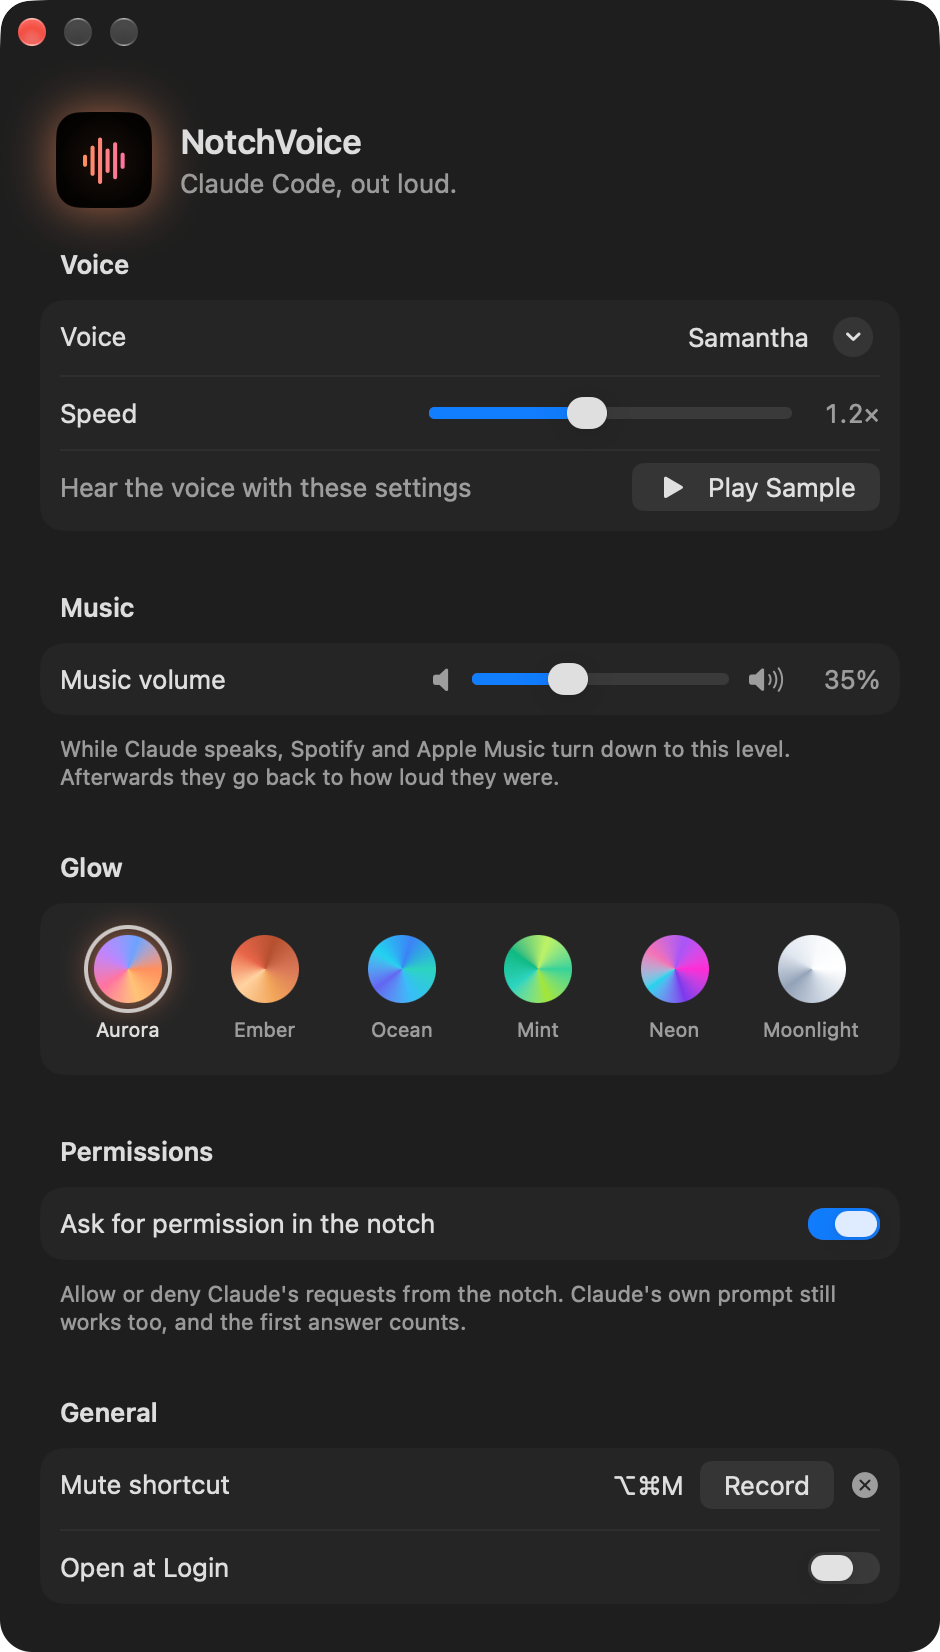
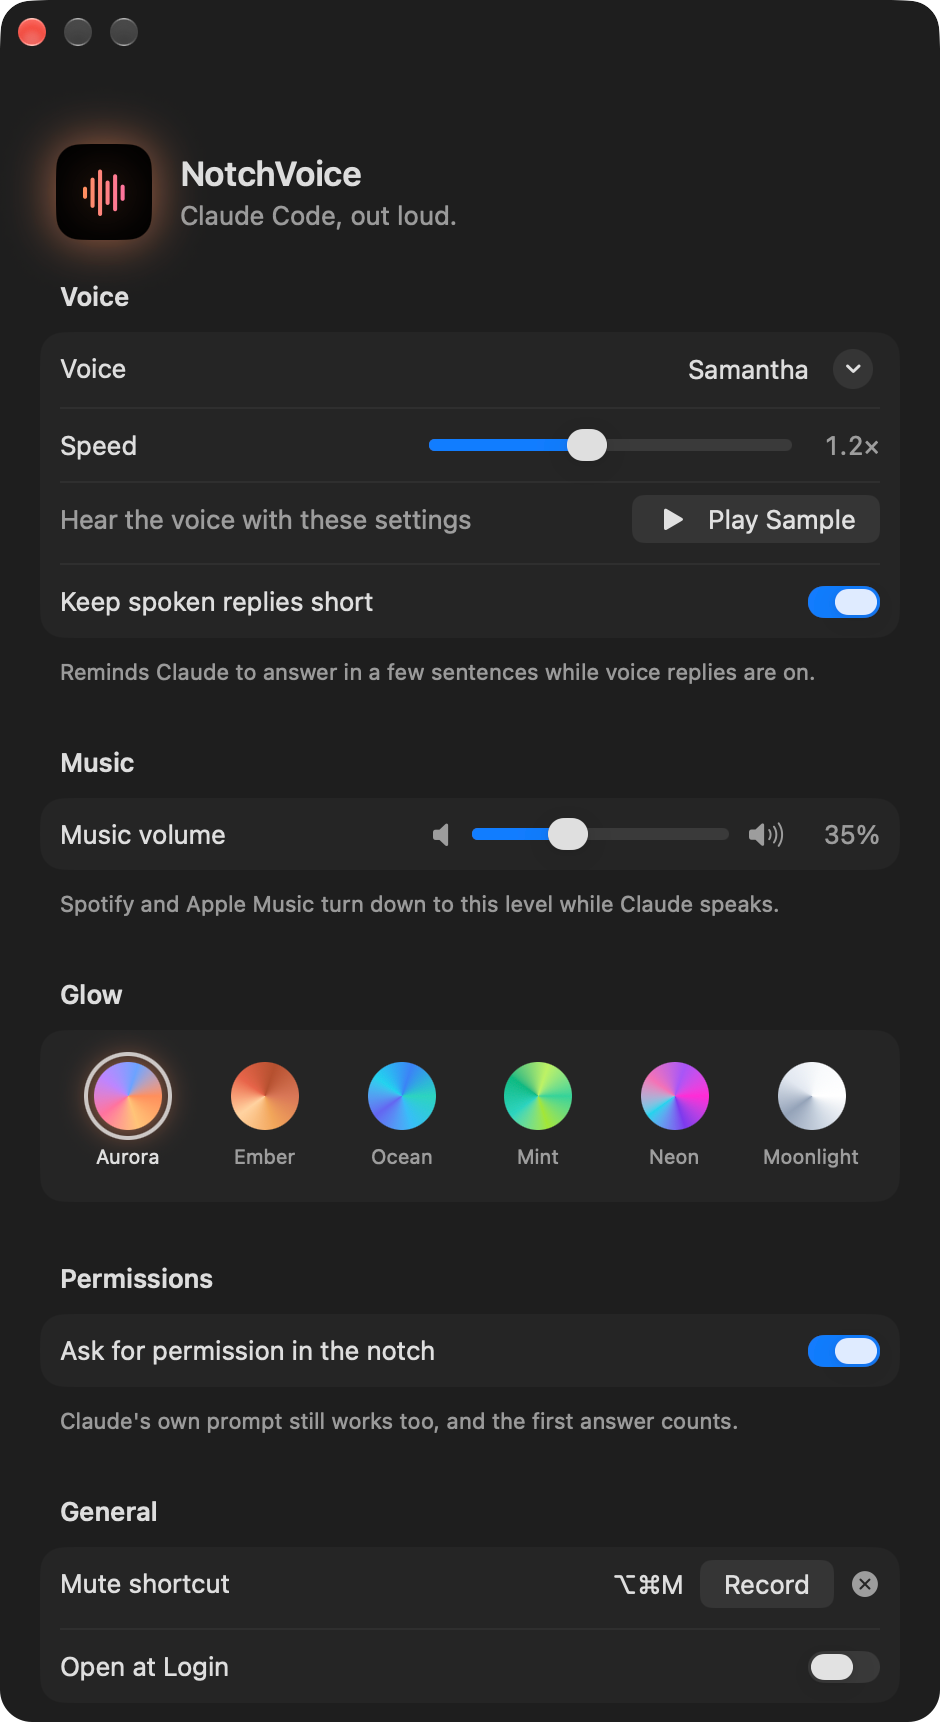
Short spoken replies: remind Claude to keep voice answers brief
A UserPromptSubmit hook adds a short reminder to every prompt while voice replies are on, so each session keeps its spoken answer to a few sentences. Settings has a "Keep spoken replies short" toggle, saved as brief in tts_settings.json. The settings window now fits smaller screens by scrolling. Version 1.3.

diff --git a/Sources/NotchVoice/SettingsView.swift b/Sources/NotchVoice/SettingsView.swift
@@ -33,13 +33,14 @@ final class SettingsWindowController {
         window.titleVisibility = .hidden
         window.isMovableByWindowBackground = true
         window.isReleasedWhenClosed = false
-        window.setContentSize(SettingsView.size)
+        let available = (NSScreen.main?.visibleFrame.height ?? SettingsView.size.height) - 24
+        window.setContentSize(CGSize(width: SettingsView.size.width, height: min(SettingsView.size.height, available)))
         return window
     }
 }
 
 struct SettingsView: View {
-    static let size = CGSize(width: 470, height: 856)
+    static let size = CGSize(width: 470, height: 926)
 
     @ObservedObject var voice: VoiceController
     @ObservedObject var preferences: Preferences
@@ -49,7 +50,7 @@ struct SettingsView: View {
         VStack(spacing: 0) {
             header
             Form {
-                Section("Voice") {
+                Section {
                     LabeledContent("Voice") { voiceMenu }
                     LabeledContent("Speed") {
                         HStack(spacing: 10) {
@@ -66,6 +67,11 @@ struct SettingsView: View {
                         Text("Hear the voice with these settings")
                             .foregroundStyle(.secondary)
                     }
+                    Toggle("Keep spoken replies short", isOn: keepsRepliesShort)
+                } header: {
+                    Text("Voice")
+                } footer: {
+                    Text("Reminds Claude to answer in a few sentences while voice replies are on.")
                 }
                 Section {
                     LabeledContent("Music volume") {
@@ -82,7 +88,7 @@ struct SettingsView: View {
                 } header: {
                     Text("Music")
                 } footer: {
-                    Text("While Claude speaks, Spotify and Apple Music turn down to this level. Afterwards they go back to how loud they were.")
+                    Text("Spotify and Apple Music turn down to this level while Claude speaks.")
                 }
                 Section("Glow") {
                     themePicker
@@ -92,7 +98,7 @@ struct SettingsView: View {
                 } header: {
                     Text("Permissions")
                 } footer: {
-                    Text("Allow or deny Claude's requests from the notch. Claude's own prompt still works too, and the first answer counts.")
+                    Text("Claude's own prompt still works too, and the first answer counts.")
                 }
                 Section("General") {
                     ShortcutRecorder(
@@ -106,10 +112,10 @@ struct SettingsView: View {
             }
             .formStyle(.grouped)
             .scrollContentBackground(.hidden)
-            .scrollDisabled(true)
             footer
         }
-        .frame(width: Self.size.width, height: Self.size.height)
+        .frame(width: Self.size.width)
+        .frame(minHeight: 480, maxHeight: .infinity)
         .background(Color(nsColor: .windowBackgroundColor))
     }
 
@@ -217,6 +223,10 @@ struct SettingsView: View {
 
     private var speed: Binding<Double> {
         Binding(get: { voice.speed }, set: { voice.setSpeed(($0 * 10).rounded() / 10) })
+    }
+
+    private var keepsRepliesShort: Binding<Bool> {
+        Binding(get: { voice.keepsRepliesShort }, set: { voice.setKeepsRepliesShort($0) })
     }
 
     private var musicVolume: Binding<Double> {

diff --git a/Sources/NotchVoice/VoiceController.swift b/Sources/NotchVoice/VoiceController.swift
@@ -14,6 +14,7 @@ final class VoiceController: ObservableObject {
     @Published private(set) var voiceName = "System Voice"
     @Published private(set) var speed = 1.0
     @Published private(set) var musicVolume = 0.5
+    @Published private(set) var keepsRepliesShort = true
 
     // The contract of ~/.claude/hooks/speak.py: it stays silent while the mute file exists, takes its voice, rate
     // and music level from the settings file, and writes "<hook pid> <say pid>" to the owner file while it speaks.
@@ -57,6 +58,11 @@ final class VoiceController: ObservableObject {
         saveSettings()
     }
 
+    func setKeepsRepliesShort(_ enabled: Bool) {
+        keepsRepliesShort = enabled
+        saveSettings()
+    }
+
     func loadSettings() {
         let settings = (try? Data(contentsOf: settingsFile))
             .flatMap { try? JSONSerialization.jsonObject(with: $0) as? [String: Any] } ?? [:]
@@ -65,6 +71,7 @@ final class VoiceController: ObservableObject {
         voiceName = id.flatMap(VoiceCatalog.displayName(of:)) ?? "System Voice"
         speed = (settings["rate"] as? Double).map { ($0 / Self.baseRate * 10).rounded() / 10 } ?? 1
         musicVolume = settings["duck"] as? Double ?? 0.5
+        keepsRepliesShort = settings["brief"] as? Bool ?? true
     }
 
     func playSample() {
@@ -107,7 +114,7 @@ final class VoiceController: ObservableObject {
     }
 
     private func saveSettings() {
-        var settings: [String: Any] = ["duck": NSDecimalNumber(string: String(format: "%.2f", musicVolume))]
+        var settings: [String: Any] = ["duck": NSDecimalNumber(string: String(format: "%.2f", musicVolume)), "brief": keepsRepliesShort]
         if let voiceID { settings["voice"] = voiceID }
         if abs(speed - 1) > 0.01 { settings["rate"] = Int((Self.baseRate * speed).rounded()) }
         guard let data = try? JSONSerialization.data(withJSONObject: settings, options: [.prettyPrinted, .sortedKeys]) else { return }

diff --git a/hook/notchvoice_brief.py b/hook/notchvoice_brief.py
@@ -1,0 +1,36 @@
+#!/usr/bin/env python3
+"""UserPromptSubmit hook: while NotchVoice voice replies are on, remind Claude that its final reply is read aloud.
+
+Claude gets this note with every prompt, so every session keeps its spoken replies short. It adds nothing while
+voice replies are muted (~/.claude/tts_off exists) or when "brief" is false in ~/.claude/tts_settings.json.
+"""
+import json
+import os
+import sys
+
+MUTE_FILE = os.path.join(os.path.expanduser("~"), ".claude", "tts_off")
+SETTINGS_FILE = os.path.join(os.path.expanduser("~"), ".claude", "tts_settings.json")
+REMINDER = (
+    "Voice replies are on, so your final message for this prompt is read aloud to the user. "
+    "Keep it short: two to four plain sentences giving the high-level outcome. "
+    "Leave out long lists, tables, code and file paths unless the user asks for them, and offer more detail instead of including it."
+)
+
+
+def wants_short_replies():
+    try:
+        with open(SETTINGS_FILE) as f:
+            return json.load(f).get("brief", True) is not False
+    except (OSError, ValueError, AttributeError):
+        return True
+
+
+def main():
+    sys.stdin.read()
+    if os.path.exists(MUTE_FILE) or not wants_short_replies():
+        return
+    print(json.dumps({"hookSpecificOutput": {"hookEventName": "UserPromptSubmit", "additionalContext": REMINDER}}))
+
+
+if __name__ == "__main__":
+    main()

diff --git a/README.md b/README.md
@@ -19,6 +19,7 @@ Hear every Claude Code reply spoken aloud, and allow or deny Claude's requests r
 
 - **Spoken replies.** Claude Code reads each reply aloud as soon as it finishes. Speech runs fully offline through macOS `say`, with markdown tidied up and code blocks skipped.
 - **A notch that glows.** A soft, shifting glow surrounds the notch while Claude talks.
+- **Short spoken replies.** While voice replies are on, Claude is reminded with every prompt to answer in a few sentences, so replies are quick to listen to.
 - **Music steps aside.** Spotify and Apple Music get quieter while Claude speaks, then return to the volume they were at.
 - **Controls in the notch.** Hover over the notch to turn voice replies on or off, or set a keyboard shortcut for it. Turning them off mid-sentence stops the speech straight away.
 - **Permissions in the notch.** When Claude asks to run a command or edit a file, the notch shows the request with Allow and Deny.
@@ -70,11 +71,12 @@ To set it, open settings, click **Record** next to **Mute shortcut**, and press 
 Click the cog in the notch to open settings. Changes apply to the next reply, with no restart needed.
 
 <p align="center">
-  <img src="docs/settings.png" alt="The NotchVoice settings window with voice, speed, music volume, glow theme, permission and mute shortcut settings" width="470">
+  <img src="docs/settings.png" alt="The NotchVoice settings window with voice, speed, short replies, music volume, glow theme, permission and mute shortcut settings" width="470">
 </p>
 
 - **Voice.** Choose any macOS voice installed on your Mac. You hear a short sample as soon as you pick one.
 - **Speed.** Set how fast replies are read, from 0.6× to 2×.
+- **Short replies.** Turn the "keep spoken replies short" reminder on or off. It's on by default.
 - **Music volume.** Choose how loud Spotify and Apple Music stay while Claude speaks, from silent to unchanged.
 - **Glow.** Choose from six colour themes. The notch lights up briefly to preview the one you pick.
 - **Permissions.** Turn permission requests in the notch on or off.
@@ -101,8 +103,8 @@ Then restart Claude Code and hover over the notch.
 
 The installer does four things:
 
-1. It copies the two hooks to `~/.claude/hooks/`: `speak.py` for voice replies and `notchvoice_permission.py` for permission requests. An existing file with the same name is saved with a `.bak` extension first.
-2. It adds them to `~/.claude/settings.json` as a `Stop` hook and a `PermissionRequest` hook, and keeps a backup of that file.
+1. It copies three hooks to `~/.claude/hooks/`: `speak.py` for voice replies, `notchvoice_permission.py` for permission requests, and `notchvoice_brief.py` for short spoken replies. An existing file with the same name is saved with a `.bak` extension first.
+2. It adds them to `~/.claude/settings.json` as `Stop`, `PermissionRequest` and `UserPromptSubmit` hooks, and keeps a backup of that file.
 3. It builds the app on your Mac and puts it in `~/Applications`. Because the app is built locally, macOS doesn't show a security warning.
 4. It starts the app, which then opens at login.
 
@@ -126,8 +128,10 @@ The Stop hook does the speaking. The app gives you the controls and the glow. Th
 | File | Written by | Used for |
 | --- | --- | --- |
 | `~/.claude/tts_off` | The switch | While this file exists, the hook stays silent. |
-| `~/.claude/tts_settings.json` | The settings window | Holds `voice`, `rate` (words per minute) and `duck` (how loud the music stays, from 0 to 1). The hook passes the voice and rate to `say`. |
+| `~/.claude/tts_settings.json` | The settings window | Holds `voice`, `rate` (words per minute), `duck` (how loud the music stays, from 0 to 1) and `brief` (the short-replies reminder). The Stop hook passes the voice and rate to `say`. |
 | `$TMPDIR/claude_tts_owner` | The hook | Holds `<hook pid> <say pid>` while a reply is spoken. The glow follows this file. |
+
+The `UserPromptSubmit` hook adds a one-line reminder to each prompt while voice replies are on and `brief` isn't turned off. The reminder asks Claude to keep its final answer to a few spoken sentences.
 
 The permission hook sends each request to the app over a Unix socket at `$TMPDIR/notchvoice.sock`, then prints the app's answer as the hook's decision. Claude Code shows its own prompt at the same time. If you answer there first, the hook sees the result in the session transcript and withdraws the card. If the app isn't running, the hook exits straight away, and Claude Code asks as usual.
 
@@ -149,7 +153,7 @@ The settings window covers everything you need day to day. If you use the hook w
 ./install.sh --uninstall
 ```
 
-This removes the app, its login item, both hooks, and their entries in `settings.json`.
+This removes the app, its login item, all three hooks, and their entries in `settings.json`.
 
 ## Troubleshooting
 
